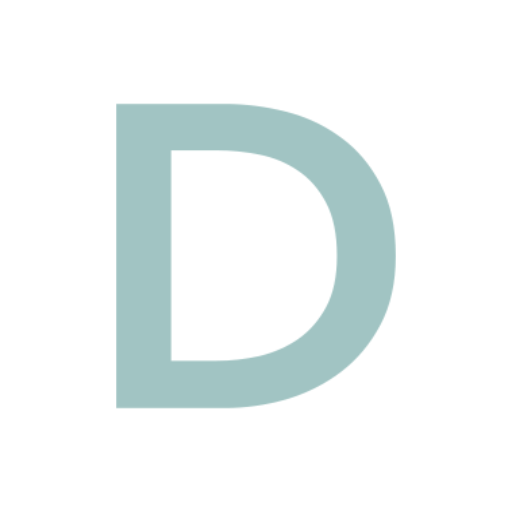
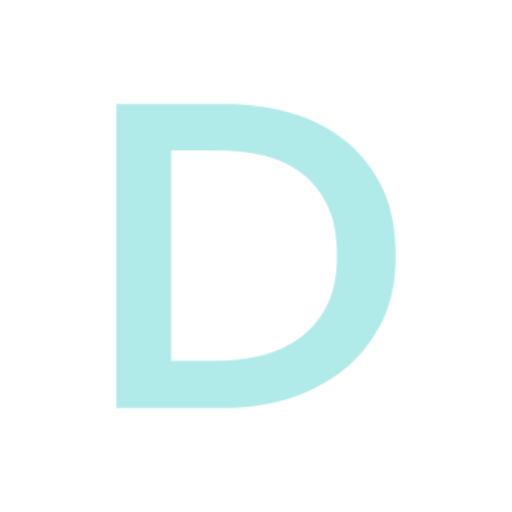
Changes.

Changed region(s): [[0.2188, 0.1875, 0.7812, 0.8125]]

diff --git a/index.html b/index.html
@@ -62,13 +62,8 @@
     </div>
   </div>
   <div class="container-fluid">
-    <div class="d-flex what" id="what">
-      <div class="d-flex align-items-center justify-content-center p-4">
-        <img src="images/deborahbolzan_2.jpg" class="profile" alt="Deborah Bolzan">
-      </div>
-      <div class="d-flex align-items-center justify-content-center p-4">
-        <h1>Helping students share their stories.</h1>
-      </div>
+    <div class="d-flex align-items-center justify-content-center p-4 what" id="what">
+      <h1>Helping students share their stories.</h1>
     </div>
     <div class="how">
       <div class="d-flex">
@@ -82,37 +77,7 @@
           </p>
         </div>
         <div class="d-flex flex-column align-items-center justify-content-center how2" id="testimonials">
-          <div class="d-flex align-items-center justify-content-center comment_wrapper">
-            <div class="comment">
-              <div class="content">
-                Deborah is just the best. She always edits my essays to perfection!
-              </div>
-              <div class="author light">
-                – Roberto B.
-              </div>
-            </div>
-          </div>
-          <div class="d-flex align-items-center justify-content-center comment_wrapper">
-            <div class="comment">
-              <div class="content">
-                I wish I had gone to Deborah earlier in the process. She polished my personal statement beyond my
-                expectations.
-              </div>
-              <div class="author light">
-                – Sylvie F.
-              </div>
-            </div>
-          </div>
-          <div class="d-flex align-items-center justify-content-center comment_wrapper">
-            <div class="comment">
-              <div class="content">
-                The most impressive quality of Deborah's is her knowledge of the entire college application process.
-              </div>
-              <div class="author light">
-                – Jean-Luc S.
-              </div>
-            </div>
-          </div>
+          <img src="images/deborahbolzan_2.jpg" class="profile" alt="Deborah Bolzan">
         </div>
         <div class="d-flex align-items-center justify-content-center how3">
           <p>
@@ -130,6 +95,9 @@
       </div>
     </div>
     <div class="about" id="about">
+      <span class="title">
+        About Deborah
+      </span>
       <div class="d-flex">
         <div class="third d-flex align-items-center justify-content-center">
           <div class="about_text">
@@ -180,6 +148,9 @@
       </div>
     </div>
     <div class="services" id="services">
+      <span class="title white">
+        Services
+      </span>
       <div class="d-flex align-items-center justify-content-center">
         <div class="service_wrapper">
           <ul class="service_list">

diff --git a/style.css b/style.css
@@ -39,7 +39,7 @@ body, .container-fluid, .row {
 }
 
 .blue, .what, .services, .content {
-  background-color: rgb(161, 196, 195);
+  background-color: rgb(176, 235, 233);
 }
 
 .what {
@@ -52,7 +52,7 @@ body, .container-fluid, .row {
 }
 
 h1 {
-  text-align: left;
+  text-align: center;
   font-size: 70px;
 }
 
@@ -61,15 +61,15 @@ img {
 }
 
 .profile {
-  width: 200px;
+  width: 250px;
   border-radius: 50%;
-  border: 5px solid white;
+  border: 5px solid rgb(176, 235, 233);
   margin: 0px 20px;
 }
 
 .portrait {
   width: 350px;
-  border: 5px solid rgb(161, 196, 195);
+  border: 5px solid rgb(176, 235, 233);
 }
 
 p {
@@ -78,17 +78,20 @@ p {
   text-align: justify;
 }
 
+.how1, .how2, .how3 {
+  padding: 60px;
+}
+
 .how1, .how2 {
   border-right: 1px solid black;
 }
 
 .how1, .how3 {
-  width: 25%;
-  padding: 60px;
+  width: 30%;
 }
 
 .how2 {
-  width: 50%;
+  width: 40%;
 }
 
 .comment_wrapper {
